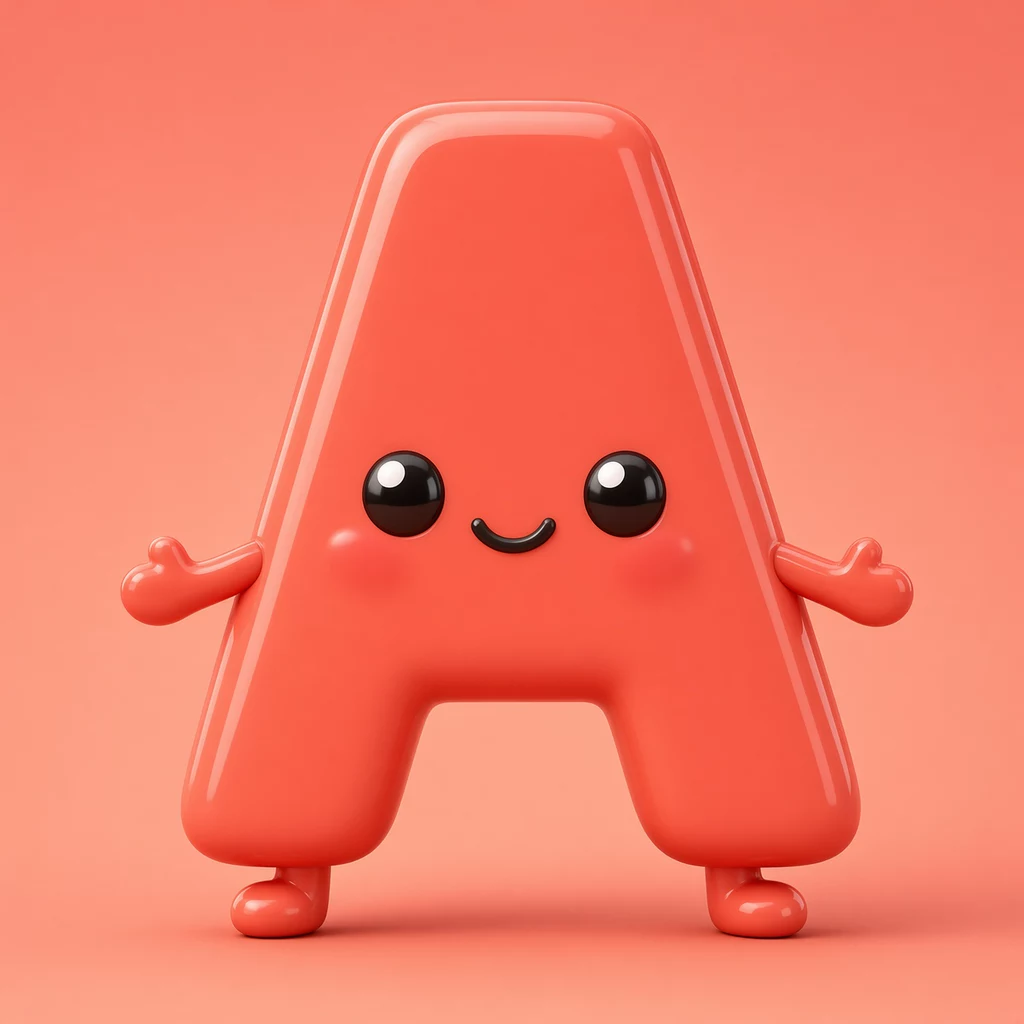
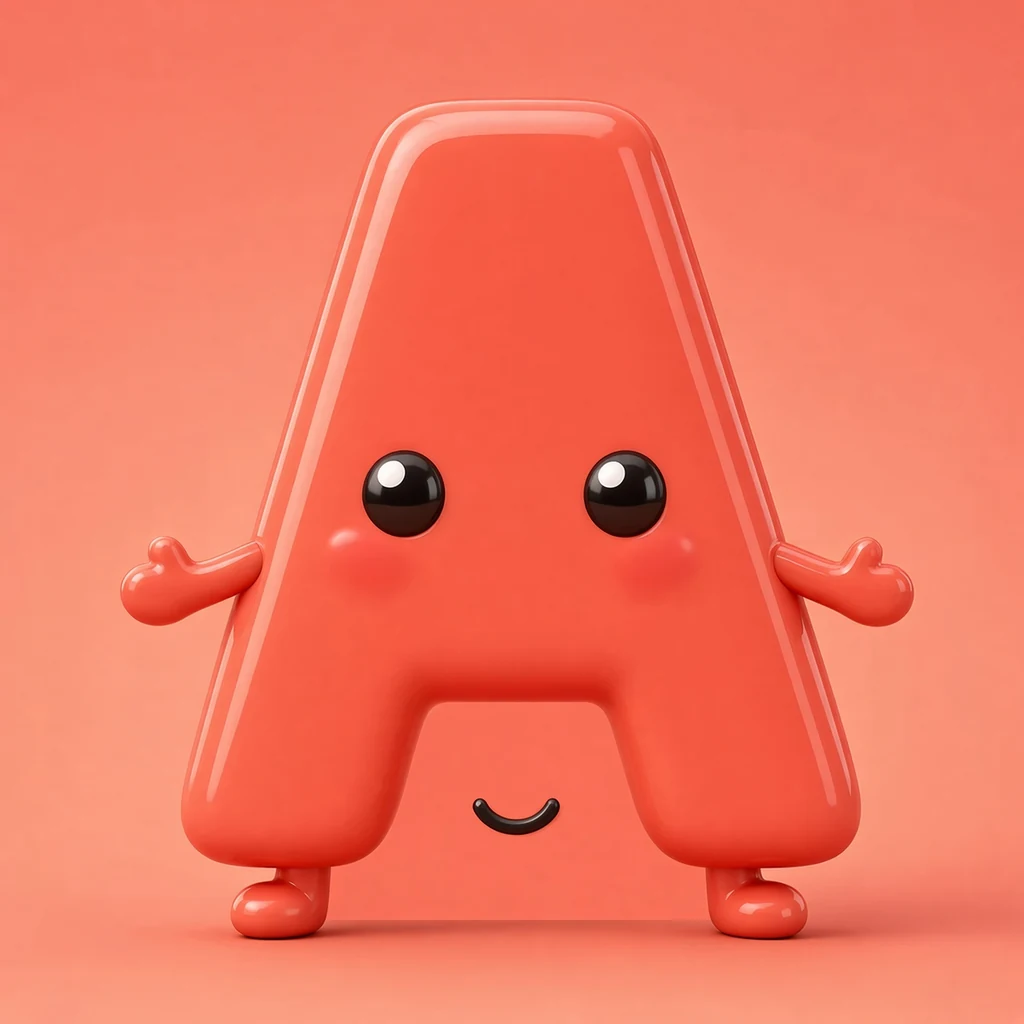
v0.135: Meet A mouth sits below the crossbar.
Eyes on the upper A. Slow Big... A... line kept.

diff --git a/src/lib/version.ts b/src/lib/version.ts
@@ -12,7 +12,7 @@
  * Grok Publish: still remind at v0.070, v0.080… so the public link can match.
  */
 
-export const APP_VERSION = "0.134";
+export const APP_VERSION = "0.135";
 export const APP_VERSION_LABEL = `v${APP_VERSION}`;
 export const APP_SLUG = "abc-adventure";
 export const APP_DISPLAY_NAME = "ABC Adventure";

diff --git a/AGENTS.project.md b/AGENTS.project.md
@@ -33,9 +33,8 @@ Do **not** retune the % again (26 vs 80 vs 50). If they pick, build that
 one. Default if they say “fix tracing” with no letter: **A**.
 Letter **names** use USA pronunciation. H is **aitch** (AY-ch), never haitch / hey-ch.
 Meet clips from **J onward**: the letter says **“Hi I’m Big J, Big J, Big J”**
-(that letter). **A** remade (v0.133) slow: **“Big… A… Big… A…”** — pauses,
-not BIGA. Still missing that Big line: **B C D E F G H I**. Do not remake
-those unless asked. Uppercase first; lowercase later.
+(that letter). **A** remade (v0.135): mouth **below** the crossbar, not on the bar.
+Slow: **“Big… A… Big… A…”**. Still missing that Big line: **B C D E F G H I**.
 
 ## Lowercase / small-letter plan (remind on ask)
 

diff --git a/SESSION.md b/SESSION.md
@@ -1,6 +1,6 @@
 # Session compact — ABC Adventure
 
-**Version:** v0.134  
+**Version:** v0.135  
 **GitHub:** sh4gu4dummy-arch/abc-adventure `main`  
 **User tests in Grok live preview**, not APK, unless they ask.
 
@@ -32,6 +32,9 @@ really is done. Tap to play again (v0.129).
 | H heart | Crayon with two points | One-tip crayon; look-at-the-clip QA (not a tip-count law) |
 
 A–Z word videos exist. J–Z remade to locked sentences; A–I older unless later patched (G, H, fish, frog, etc.).
+
+## Meet A mouth (v0.135)
+Smile sits below the crossbar, not jammed under the peak. Still slow “Big… A…”
 
 ## Meet A slow Big (v0.133)
 A says “Big… A… Big… A…” with pauses. Still old short clips: B–I.

diff --git a/PROJECT.md b/PROJECT.md
@@ -113,7 +113,7 @@ npm run build:apk      # only when asked
 
 ## Versioning & downloads
 
-- **Current version:** `0.134` (`v0.134`) — stored in `VERSION` and `src/lib/version.ts` (keep in sync).
+- **Current version:** `0.135` (`v0.135`) — stored in `VERSION` and `src/lib/version.ts` (keep in sync).
 
 ## GitHub + Grok Publish cadence
 
